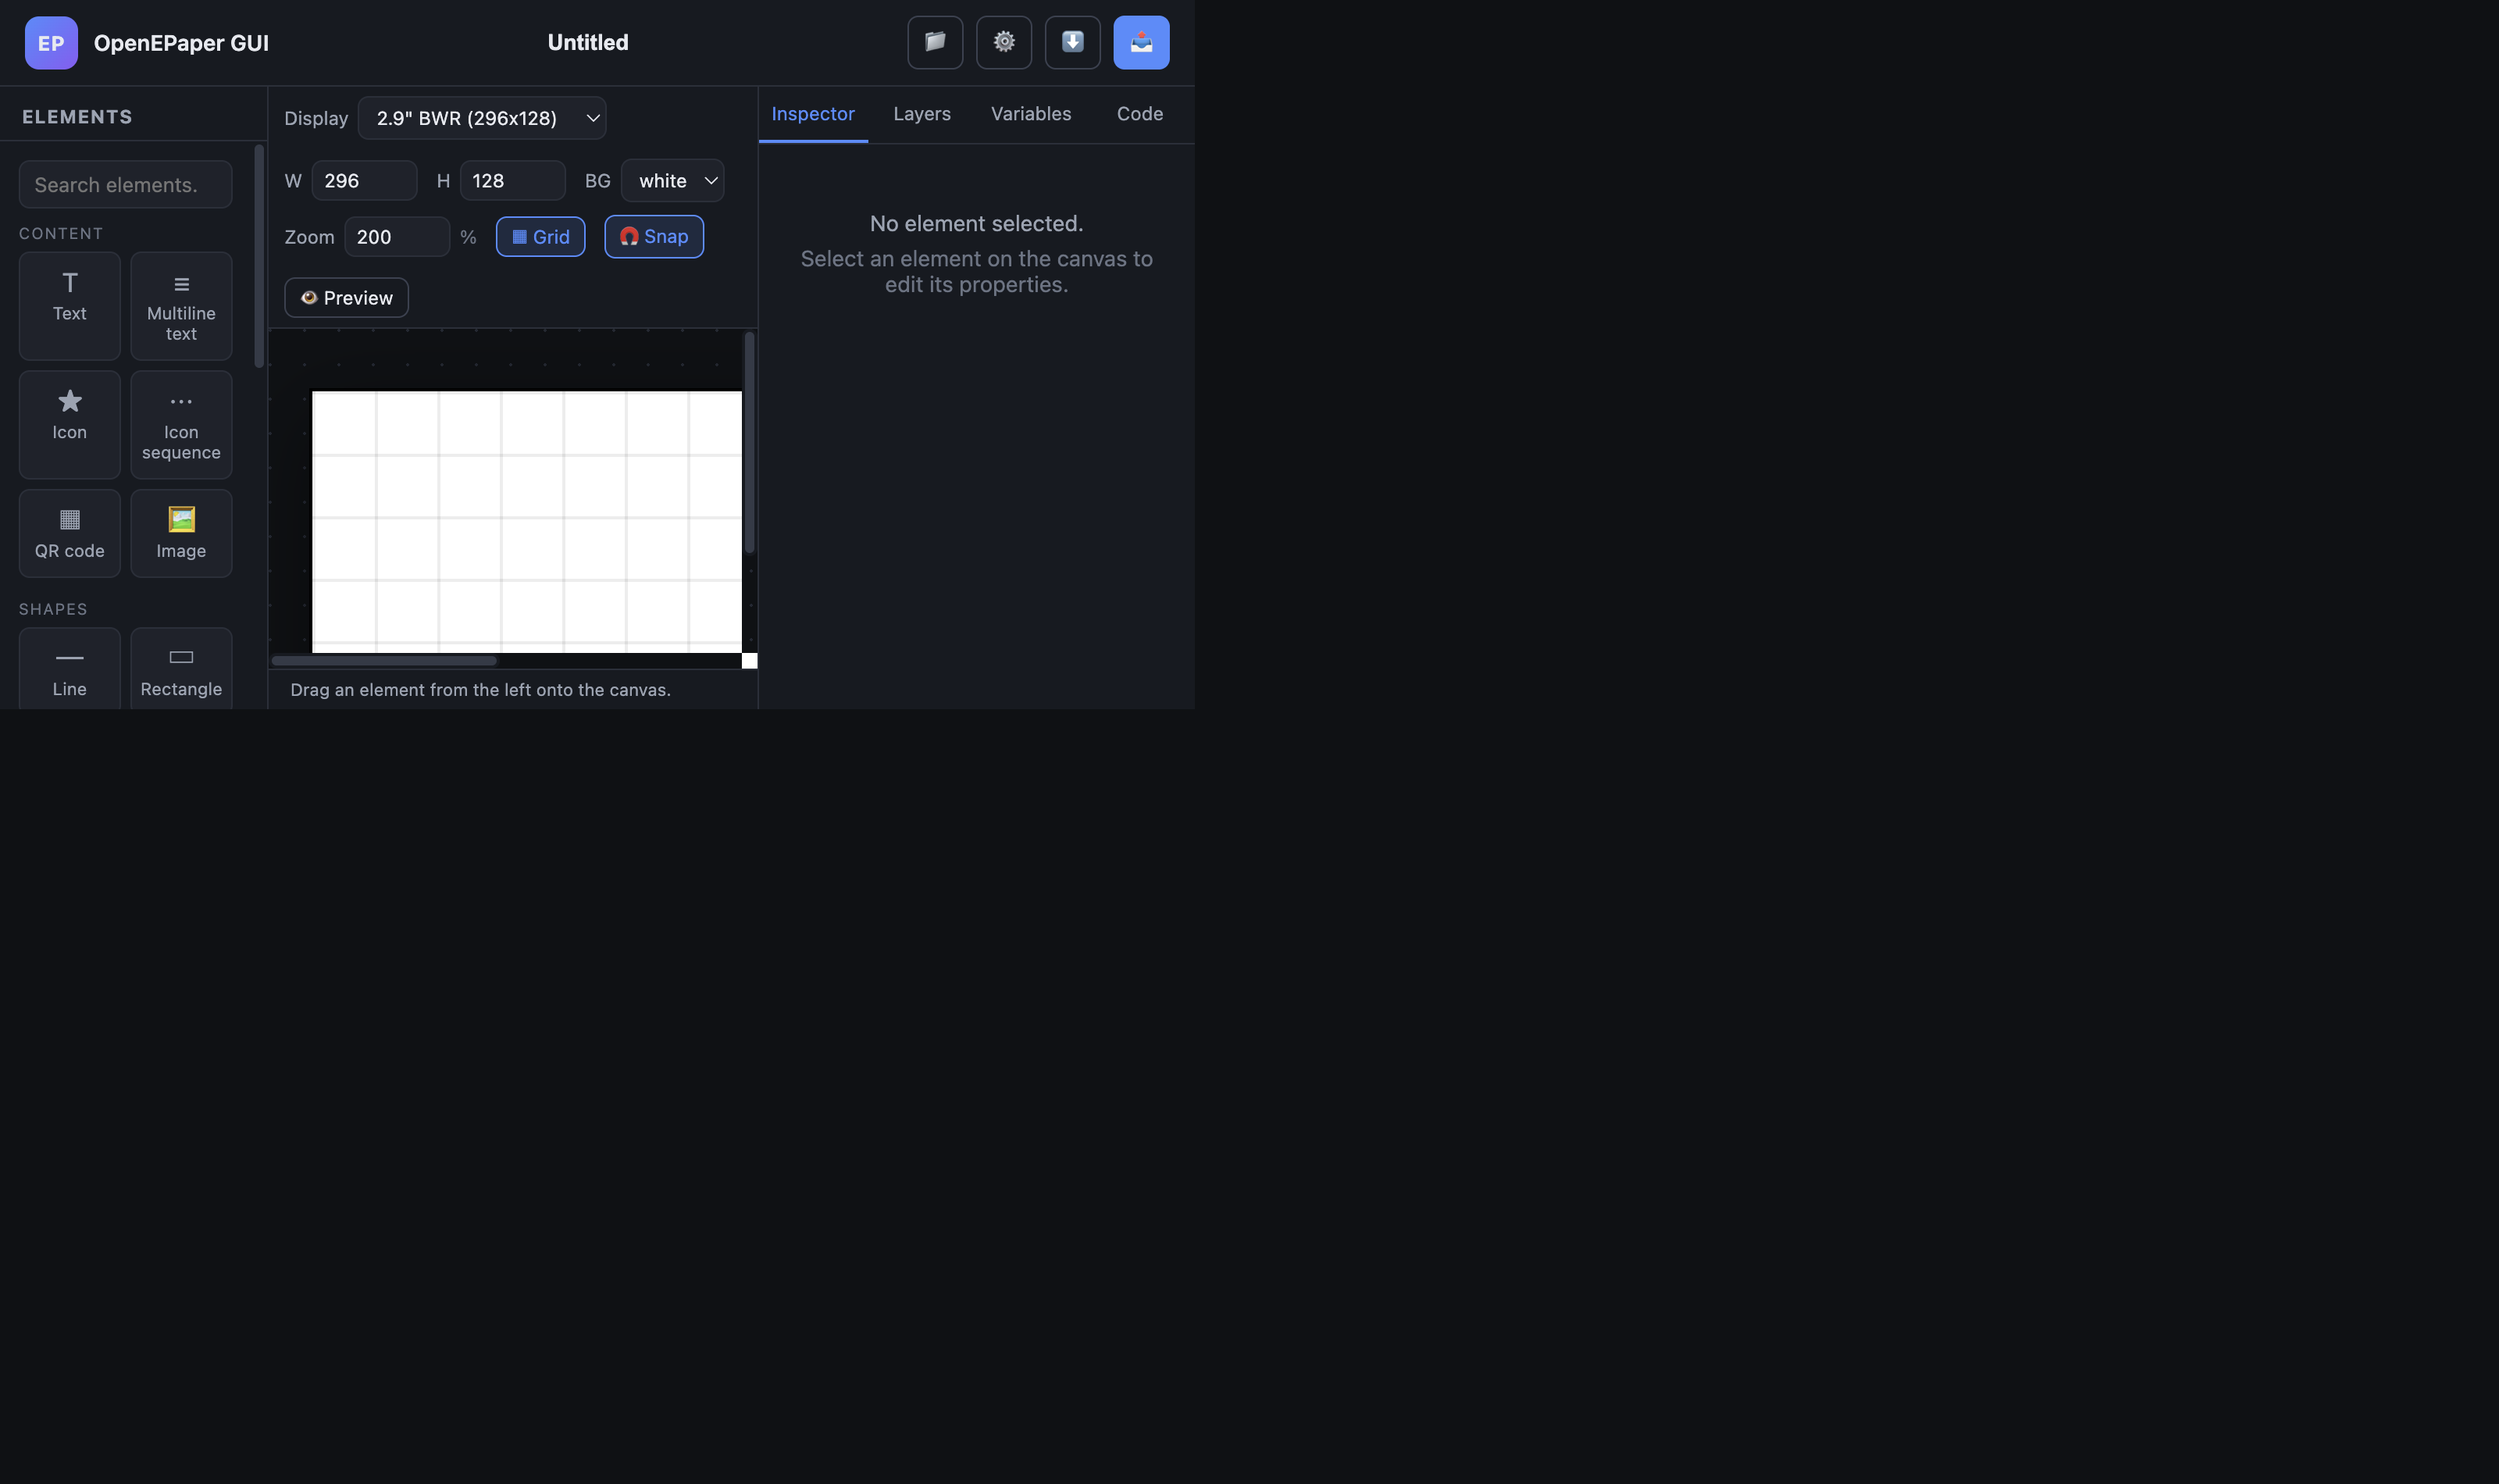
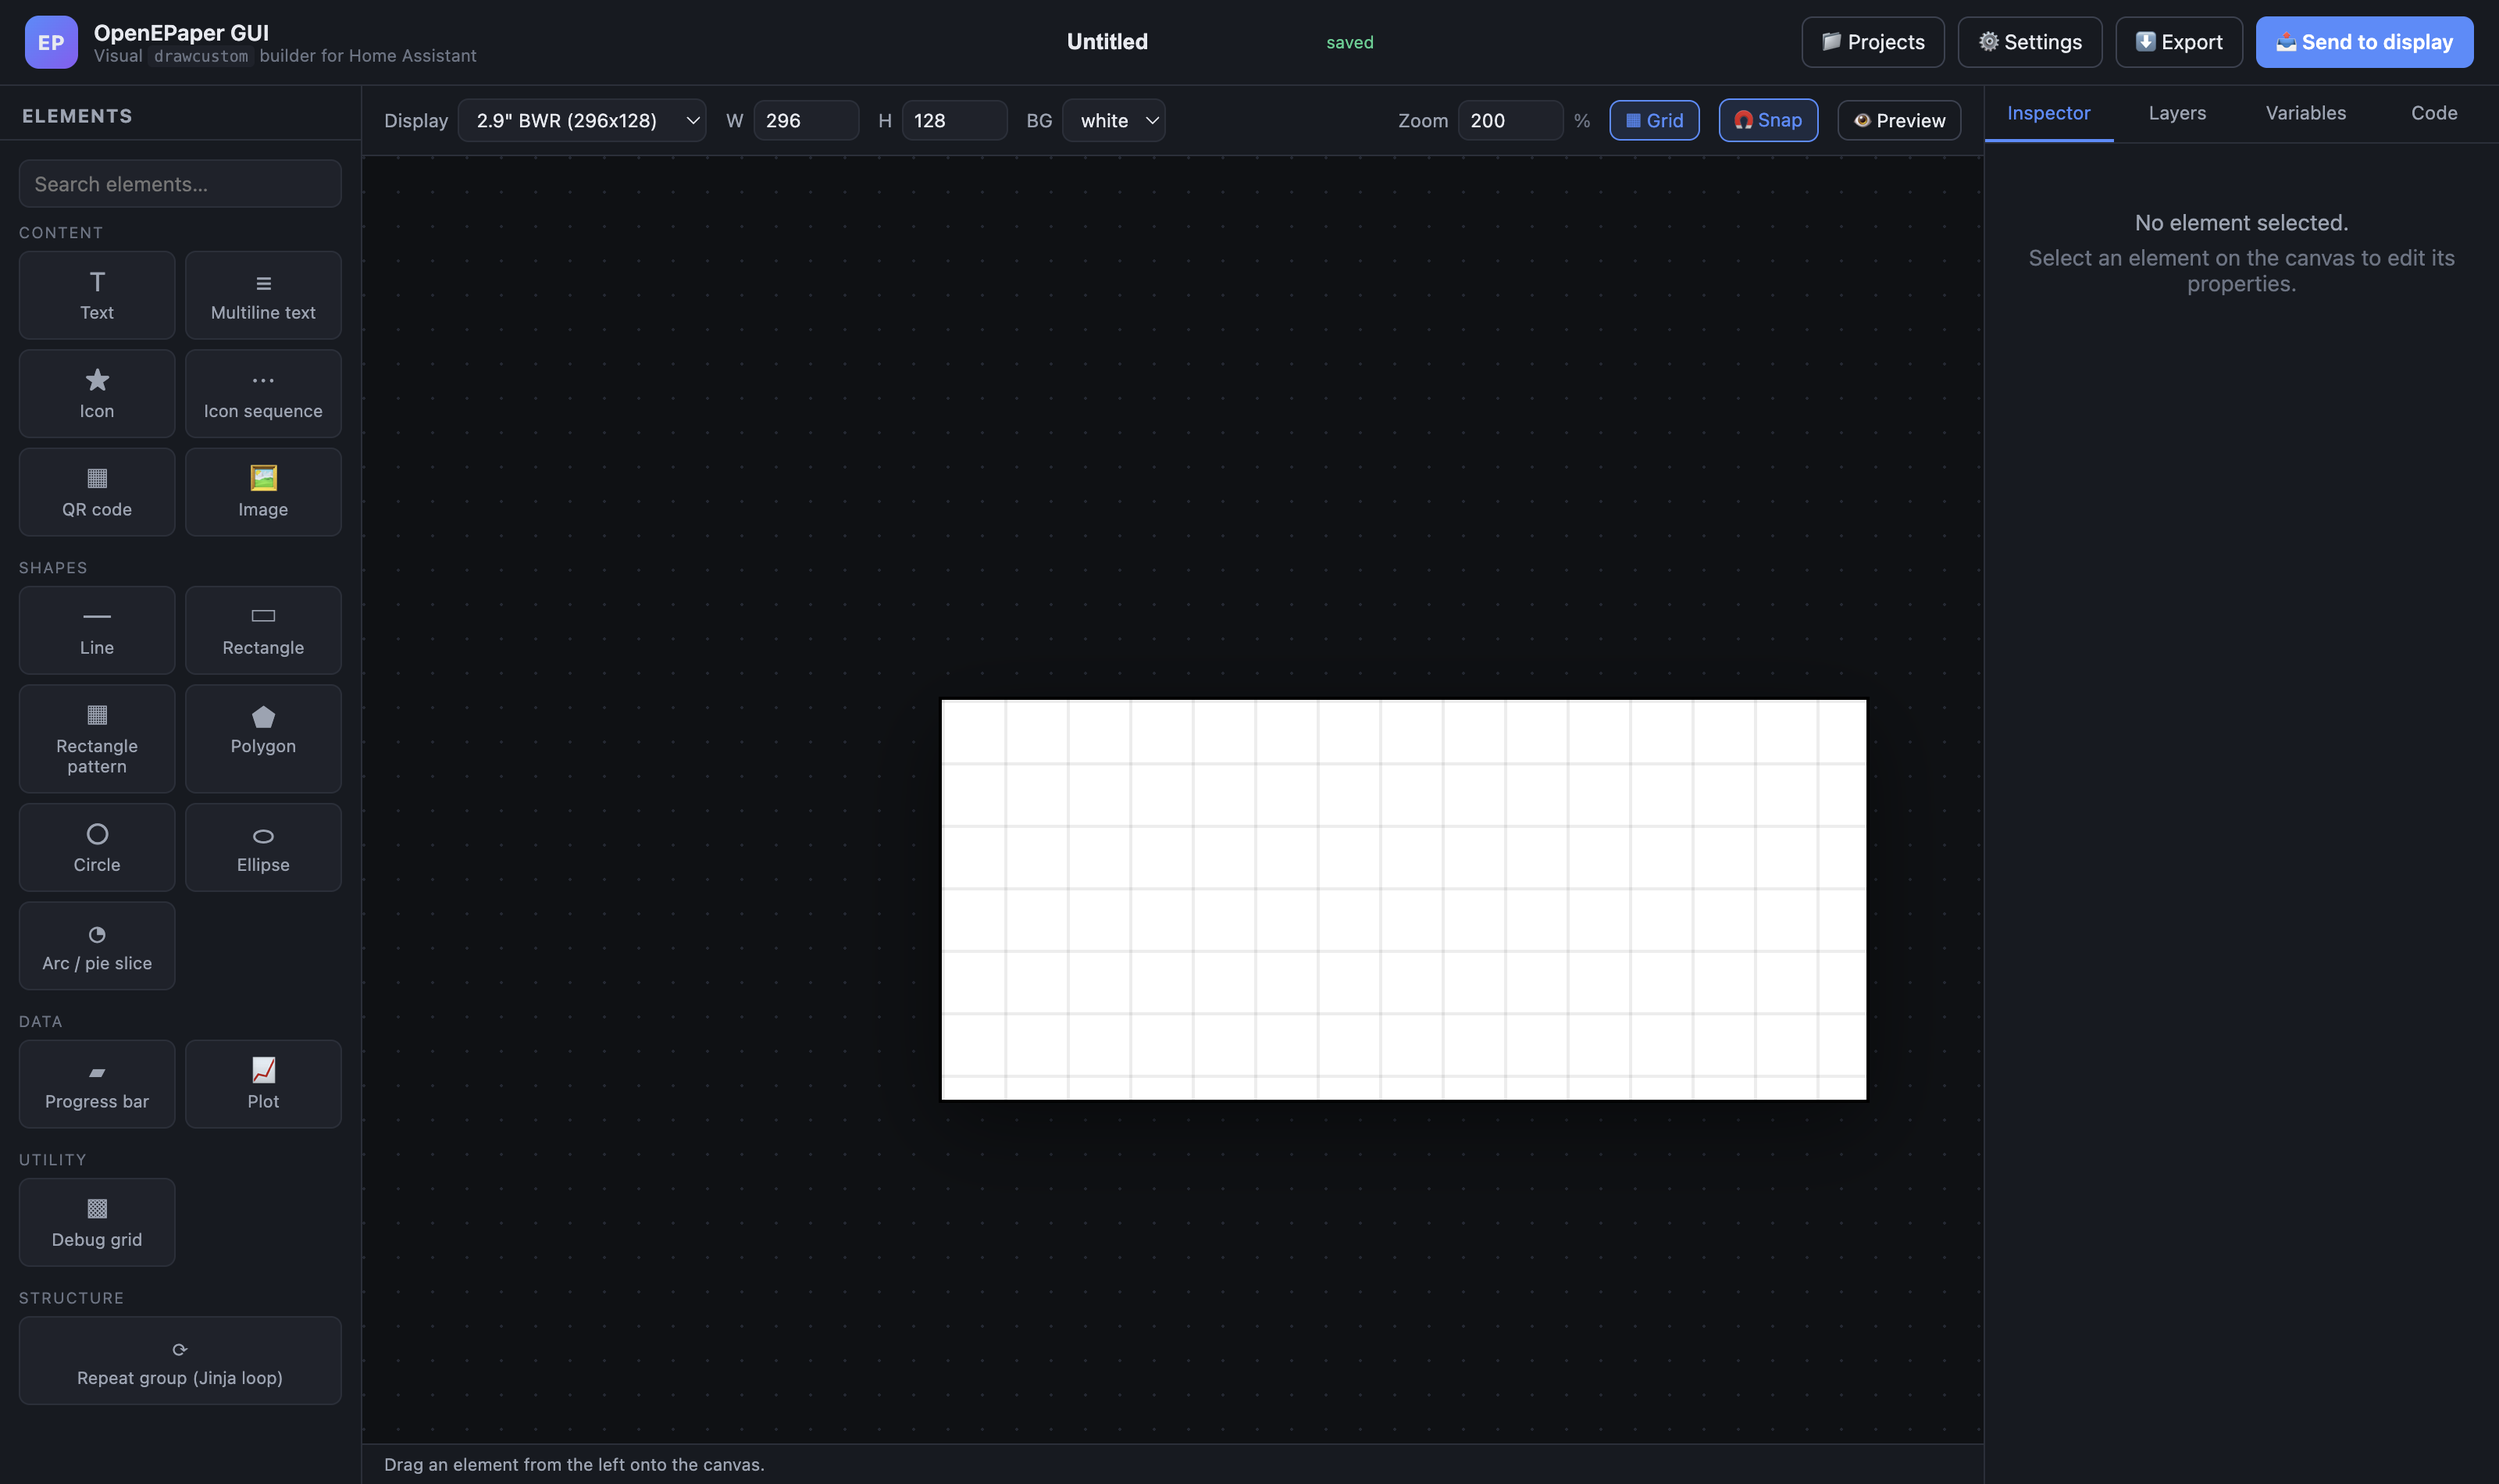
Refactor code structure for improved readability and maintainability

diff --git a/frontend/js/canvas.js b/frontend/js/canvas.js
@@ -3,7 +3,7 @@
 import {
   state, setState, createElement, createGroup, findNode, removeNode, emit, typeSpec,
 } from './state.js';
-import { boundsOf, applyBounds, snapValue } from './geometry.js';
+import { boundsOf, applyBounds, snapValue, buildPreviewContext, resolveProps } from './geometry.js';
 import { renderElementContent, elementLabel } from './renderer.js';
 
 let canvasEl;
@@ -139,6 +139,13 @@ export function render() {
   elementsEl.innerHTML = '';
   overlayEl.innerHTML = '';
 
+  // Drop stale preview values so edits to props are always reflected.
+  for (const node of flatten(project.nodes)) {
+    delete node.__display;
+    delete node.__approximate;
+    if (node.kind !== 'group') delete node.__resolvedProps;
+  }
+
   computePreviewLayout(project);
 
   const flat = flatten(project.nodes);
@@ -172,37 +179,50 @@ function isDynamic(value) {
 }
 
 /**
- * Coordinates that are Jinja expressions (e.g. `{{ 15 + i*spacing }}`) cannot be
- * resolved at design time, so every such element would otherwise collapse onto
- * the origin. Lay those children out in a readable stack instead and mark them
- * as approximate.
+ * Preview of loop contents. Home Assistant renders the real thing; here we
+ * evaluate every `{{ … }}` coordinate we can with the loop variable pinned to
+ * its first iteration, so a repeat group looks like its first column instead of
+ * collapsing onto the origin.
+ *
+ * Anything that still cannot be resolved (entity states, filters) is marked
+ * approximate: it stays selectable and editable, but is not draggable because
+ * Home Assistant owns its final position.
  */
 function computePreviewLayout(project) {
+  const baseCtx = buildPreviewContext(project);
+
   for (const node of project.nodes) {
     if (node.kind !== 'group') continue;
-    const children = (node.children || []).filter((c) => c.kind !== 'group');
-    const dynamicChildren = children.filter((child) => childHasDynamicGeometry(child));
-    if (!dynamicChildren.length) continue;
 
-    let cursorY = 0;
-    let cursorX = 0;
-    let widest = 0;
+    const repeatVar = node.repeat?.var || 'i';
+    const ctx = { ...baseCtx, [repeatVar]: 0 };
 
-    for (const child of dynamicChildren) {
-      const box = boundsOf(child);
-      child.__display = { x: cursorX, y: cursorY, w: box.w, h: box.h, approximate: true };
-      widest = Math.max(widest, box.w);
-      cursorY += Math.max(box.h, 12) + 6;
+    // `{% set %}` statements run before the loop body.
+    for (const statement of node.repeat?.pre || []) {
+      const match = String(statement).match(/^\s*([A-Za-z_][A-Za-z0-9_]*)\s*=\s*(.+?)\s*$/);
+      if (!match) continue;
+      const [, name, expr] = match;
+      try {
+        const parsed = JSON.parse(expr);
+        if (Array.isArray(parsed)) ctx[name] = parsed;
+      } catch { /* not a literal list */ }
     }
-    node.__previewBox = { x: 0, y: 0, w: Math.max(widest, 40), h: Math.max(cursorY - 6, 20) };
+
+    node.__resolvedGroup = true;
+    for (const child of node.children || []) {
+      if (child.kind === 'group') continue;
+      child.__resolvedProps = resolveProps(child.props, ctx);
+      child.__display = null;
+      child.__approximate = childHasUnresolvedGeometry(child);
+    }
   }
 }
 
-function childHasDynamicGeometry(node) {
+function childHasUnresolvedGeometry(node) {
   const spec = typeSpec(node.type);
   if (!spec) return false;
   const g = spec.geometry || {};
-  const p = node.props || {};
+  const p = node.__resolvedProps || node.props || {};
   const keys = [g.x, g.y, g.radius, g.x_start, g.y_start, g.x_end, g.y_end].filter(Boolean);
   return keys.some((key) => isDynamic(p[key]));
 }
@@ -227,12 +247,13 @@ function buildElementNode(node, index) {
     wrapper.style.cssText += `left:${box.x}px;top:${box.y}px;width:${box.w}px;height:${box.h}px;`;
     const hidden = node.props?.visible === false;
     if (hidden) wrapper.classList.add('is-hidden-el');
-    if (box.approximate) wrapper.classList.add('is-approximate');
+    const approximate = node.__approximate;
+    if (approximate) wrapper.classList.add('is-approximate');
     wrapper.innerHTML = `
       <div class="el-content">${renderElementContent(node)}</div>
       <div class="el-box"></div>
-      <div class="el-label">${escapeHtml(elementLabel(node))}${box.approximate ? ' · dynamic' : ''}</div>
-      ${box.approximate ? '' : '<div class="el-handle" data-handle="se"></div><div class="el-handle" data-handle="e"></div><div class="el-handle" data-handle="s"></div>'}
+      <div class="el-label">${escapeHtml(elementLabel(node))}${approximate ? ' · dynamic' : ''}</div>
+      ${approximate ? '' : '<div class="el-handle" data-handle="se"></div><div class="el-handle" data-handle="e"></div><div class="el-handle" data-handle="s"></div>'}
     `;
   }
 
@@ -240,8 +261,8 @@ function buildElementNode(node, index) {
 
   wrapper.addEventListener('mousedown', (event) => {
     event.stopPropagation();
-    // Elements positioned by Jinja cannot be dragged meaningfully.
-    if (node.__display?.approximate) {
+    // Elements positioned by Jinja that we could not evaluate cannot be dragged.
+    if (node.__approximate) {
       setState({ selection: node.id });
       render();
       return;
@@ -257,7 +278,6 @@ function buildElementNode(node, index) {
 }
 
 function groupBounds(group) {
-  if (group.__previewBox) return group.__previewBox;
   const boxes = (group.children || [])
     .map((child) => child.__display || boundsOf(child))
     .filter(Boolean);
@@ -297,10 +317,10 @@ function startDrag(event, node, mode) {
 function collectTargets(node) {
   if (node.kind === 'group') {
     return (node.children || []).filter(
-      (child) => child.kind !== 'group' && !child.__display?.approximate,
+      (child) => child.kind !== 'group' && !child.__approximate,
     );
   }
-  return node.__display?.approximate ? [] : [node];
+  return node.__approximate ? [] : [node];
 }
 
 function onDragMove(event) {

diff --git a/frontend/js/geometry.js b/frontend/js/geometry.js
@@ -6,9 +6,108 @@ import { typeSpec } from './state.js';
 const CHAR_WIDTH = 0.58;   // monospace-ish advance per font-size unit
 const LINE_HEIGHT = 1.25;
 
+/**
+ * Builds the variable context used to preview Jinja expressions.
+ * Only literals declared in the project's Variables tab are known; entity
+ * states obviously are not, so those stay unresolved.
+ */
+export function buildPreviewContext(project, extra = {}) {
+  const ctx = { ...extra };
+  for (const variable of project?.variables || []) {
+    const name = String(variable.name || '').trim();
+    if (!name || !/^[A-Za-z_][A-Za-z0-9_]*$/.test(name)) continue;
+    const raw = String(variable.value ?? '').trim();
+    if (raw === '') continue;
+    if (/^-?\d+(\.\d+)?$/.test(raw)) {
+      ctx[name] = Number(raw);
+    } else if (/^\[.*\]$/.test(raw)) {
+      // A list of plain numbers, e.g. [offset_0, offset_1, ...] is not usable,
+      // but [110, 130, 150] is.
+      try {
+        const parsed = JSON.parse(raw);
+        if (Array.isArray(parsed)) ctx[name] = parsed;
+      } catch { /* leave unresolved */ }
+    }
+  }
+  return ctx;
+}
+
+/**
+ * Evaluates a restricted arithmetic expression. Returns null when the
+ * expression references anything we cannot resolve (entity states, filters…).
+ */
+export function evalExpression(expr, ctx) {
+  const source = String(expr).trim();
+
+  // Number / simple literal.
+  if (/^-?\d+(\.\d+)?$/.test(source)) return Number(source);
+
+  // `offsets[i]` style lookups into a known list.
+  const lookup = source.match(/^([A-Za-z_][A-Za-z0-9_]*)\[([A-Za-z0-9_]+)\]$/);
+  if (lookup) {
+    const list = ctx[lookup[1]];
+    const index = ctx[lookup[2]];
+    if (Array.isArray(list) && Number.isInteger(index) && index >= 0 && index < list.length) {
+      const value = list[index];
+      return typeof value === 'number' ? value : null;
+    }
+    return null;
+  }
+
+  // Only arithmetic over known numeric-ish identifiers is supported. Anything
+  // containing a function call, filter, string literal or unknown name bails out.
+  if (/['"()[\]{}|]/.test(source)) return null;
+
+  const identifiers = source.match(/[A-Za-z_][A-Za-z0-9_]*/g) || [];
+  for (const name of identifiers) {
+    if (!(name in ctx)) return null;
+    if (typeof ctx[name] !== 'number') return null;
+  }
+  if (!/^[\d\s+\-*/%().A-Za-z_]+$/.test(source)) return null;
+
+  try {
+    // Safe here: identifiers are all validated numbers and punctuation is arithmetic.
+    // eslint-disable-next-line no-new-func
+    const value = Function(...identifiers, `"use strict"; return (${source});`)(...identifiers.map((n) => ctx[n]));
+    return typeof value === 'number' && Number.isFinite(value) ? value : null;
+  } catch {
+    return null;
+  }
+}
+
+/**
+ * Resolves every string property that is a `{{ … }}` expression into a plain
+ * value when possible. Unresolvable properties are kept as-is.
+ */
+export function resolveProps(props, ctx) {
+  const out = {};
+  for (const [key, value] of Object.entries(props || {})) {
+    if (typeof value !== 'string' || !value.includes('{{')) {
+      out[key] = value;
+      continue;
+    }
+    const whole = value.match(/^\s*\{\{\s*(.+?)\s*\}\}\s*$/s);
+    if (whole) {
+      const resolved = evalExpression(whole[1], ctx);
+      out[key] = resolved === null ? value : resolved;
+      continue;
+    }
+    // Mixed text with embedded expressions: substitute the ones we can.
+    out[key] = value.replace(/\{\{\s*(.+?)\s*\}\}/g, (match, expr) => {
+      const resolved = evalExpression(expr, ctx);
+      return resolved === null ? match : String(resolved);
+    });
+  }
+  return out;
+}
+
 function num(value, fallback = 0) {
   const parsed = typeof value === 'number' ? value : parseFloat(value);
   return Number.isFinite(parsed) ? parsed : fallback;
+}
+
+function propsOf(node) {
+  return node.__resolvedProps || node.props || {};
 }
 
 function textSize(text, size) {
@@ -27,7 +126,7 @@ export function boundsOf(node) {
   if (!node || node.kind === 'group') return null;
   const spec = typeSpec(node.type);
   if (!spec) return { x: 0, y: 0, w: 20, h: 20 };
-  const p = node.props || {};
+  const p = propsOf(node);
   const g = spec.geometry || {};
 
   switch (g.kind) {

diff --git a/frontend/js/renderer.js b/frontend/js/renderer.js
@@ -84,7 +84,9 @@ function iconName(value) {
 export function renderElementContent(node) {
   const spec = typeSpec(node.type);
   if (!spec) return '<div class="el-placeholder">?</div>';
-  const p = node.props || {};
+  // `__resolvedProps` holds the preview values (loop variable pinned to its
+  // first iteration); fall back to the raw props for static elements.
+  const p = node.__resolvedProps || node.props || {};
   const g = spec.geometry || {};
 
   switch (node.type) {

diff --git a/README.md b/README.md
@@ -9,6 +9,8 @@ spirit to Elementor.
 You design a layout on a pixel-accurate canvas, and the app emits the Jinja
 template that Home Assistant expects. No YAML or Jinja is written by hand.
 
+![Editor overview](docs/screenshots/01-editor-overview.png)
+
 ```jinja
 {% set spacing = 49 %}
 
@@ -243,6 +245,7 @@ and the generator. Adding a new draw type means adding one entry there.
 
 ```bash
 cd backend
+pip install -r requirements-dev.txt
 python -m app.test_generator
 ```
 
